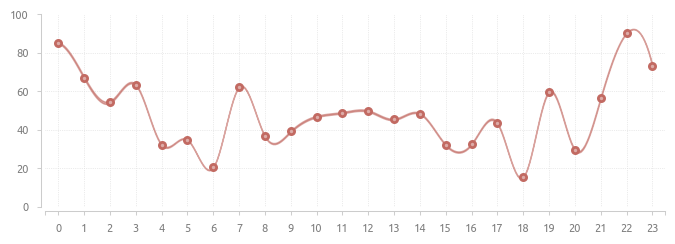
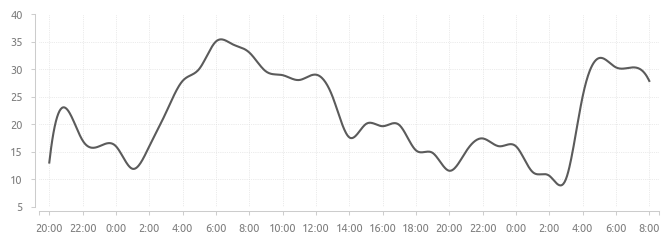
upd

diff --git a/docs/index.html b/docs/index.html
@@ -95,44 +95,42 @@
   <img-margin>
     <img src='img/01-explore/time_hist.png'>
   </img-margin>
-
-  <img src='img/01-explore/time_hist.png'>
-
-  <img-center>
-    <img src='img/01-explore/time_hist.png'>
-  </img-center>
   
-  <img-center>
+  <img-margin>
     <img src='img/01-explore/time_scatter.png'>
-  </img-center>
+  </img-margin>
 
   <img-center>
     <img src='img/01-explore/transactions_overview_per_hour.png'>
   </img-center>
 
-  <img-center>
+  <img-margin>
+    <img src='img/01-explore/transactions_overview_per_hour.png'>
+  </img-margin>
+
+  <img-margin>
     <img src='img/01-explore/transactions_fraud_per_100_by_hour.png'>
-  </img-center>
+  </img-margin>
 
-  <img-center>
+  <img-margin>
     <img src='img/01-explore/transactions_simulation_count_per_hour.png'>
-  </img-center>
+  </img-margin>
 
-  <img-center>
+  <img-margin>
     <img src='img/01-explore/transactions_simulation_probability_by_hour.png'>
-  </img-center>
+  </img-margin>
 
-  <img-center>
+  <img-margin>
     <img src='img/01-explore/amount_median_per_hour.png'>
-  </img-center>
+  </img-margin>
 
-  <img-center>
+  <img-margin>
     <img src='img/01-explore/amount_median_by_hour.png'>
-  </img-center>
+  </img-margin>
 
-  <img-center>
+  <img-margin>
     <img src='img/01-explore/amount_median_frauds_by_hour.png'>
-  </img-center>
+  </img-margin>
 
 
 